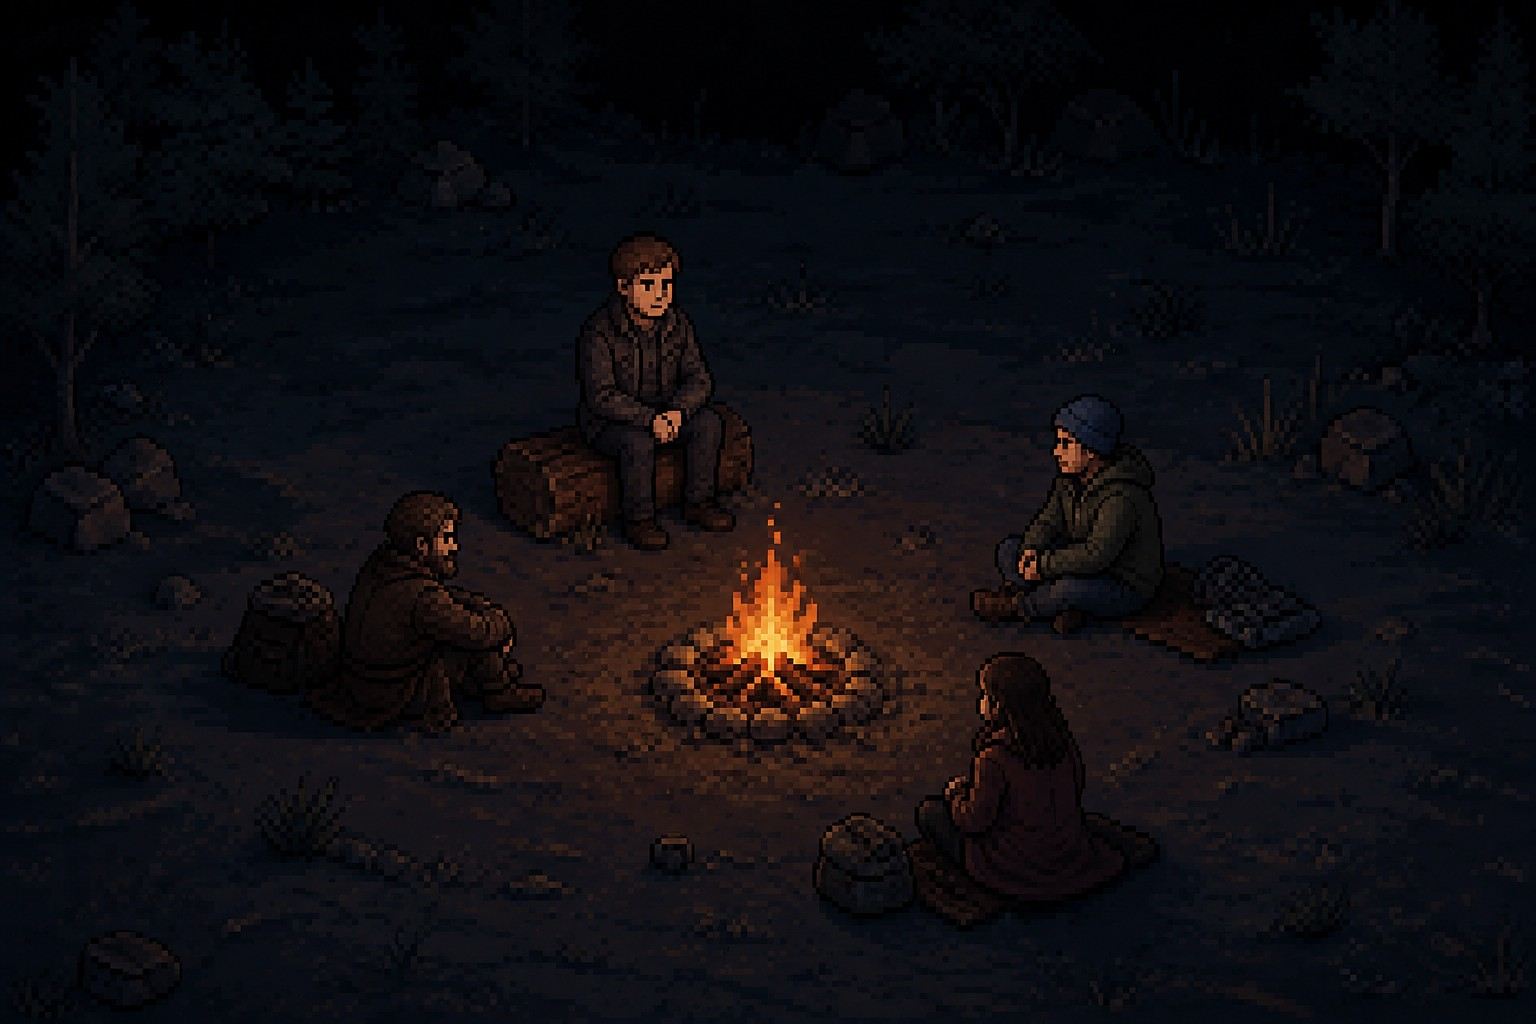
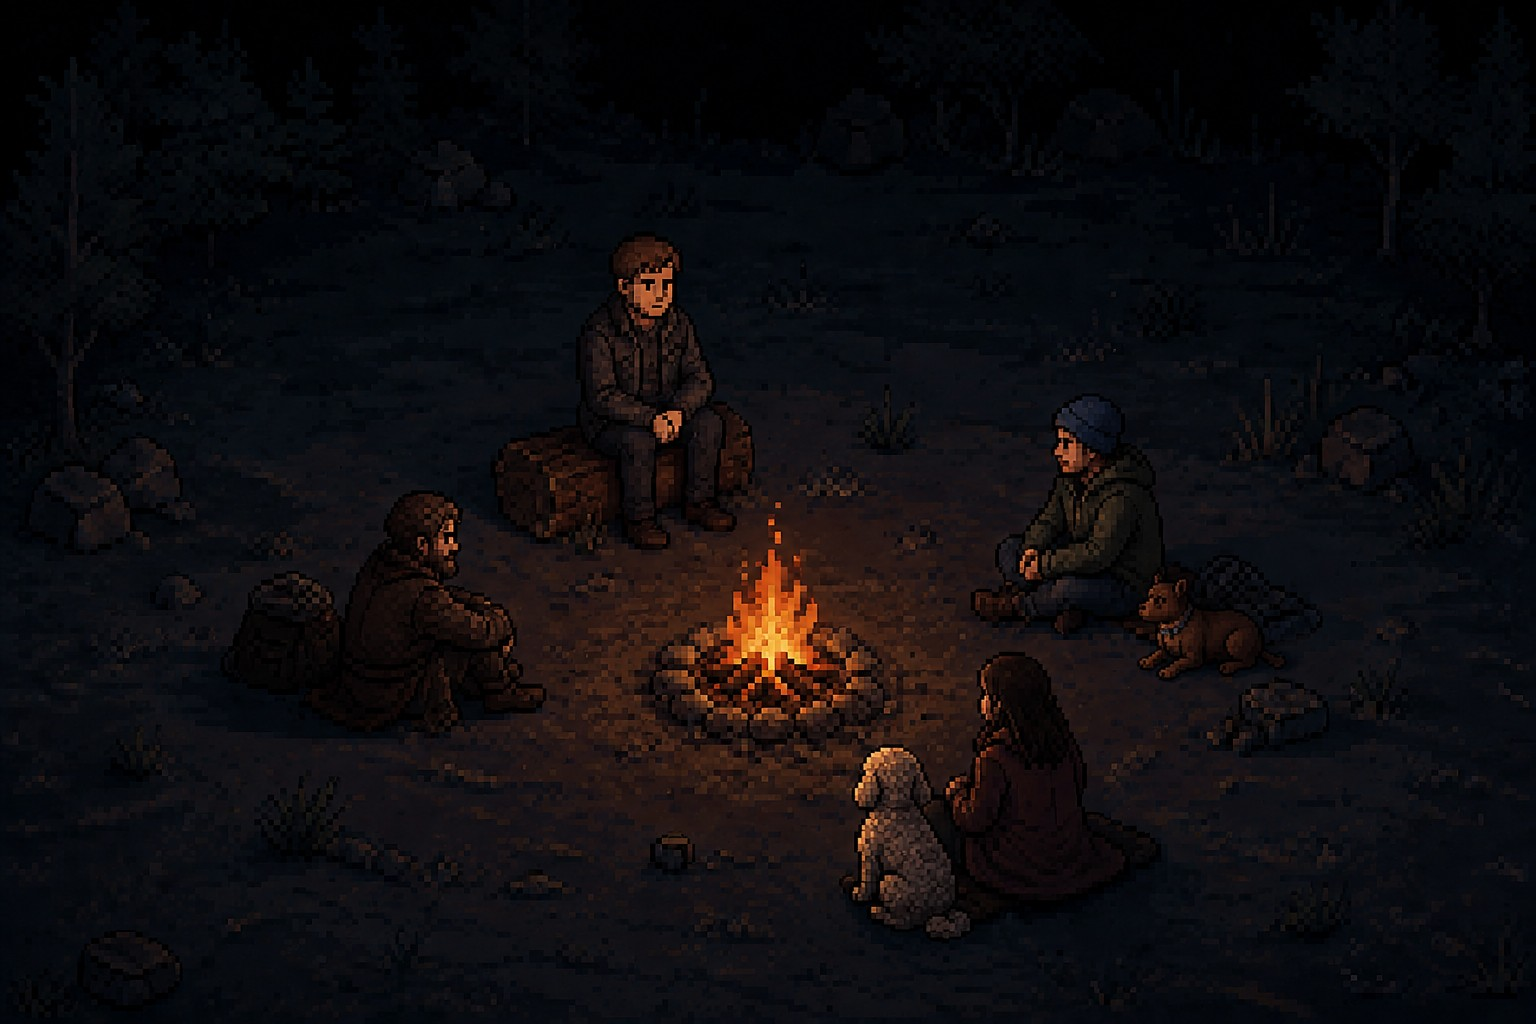
собаки

diff --git a/unhoused/styles.css b/unhoused/styles.css
@@ -324,23 +324,23 @@ button {
 }
 
 .character--sasha {
-  left: 42.2%;
-  top: 54.7%;
+  left: 34%;
+  top: 39%;
 }
 
 .character--ukraine {
   left: 27.5%;
-  top: 71.4%;
+  top: 75%;
 }
 
 .character--germany {
   left: 67.2%;
-  top: 91.8%;
+  top: 94%;
 }
 
 .character--britain {
-  left: 69.4%;
-  top: 64.3%;
+  left: 78.6%;
+  top: 47%;
 }
 
 .dialogue {
@@ -355,18 +355,50 @@ button {
   translate: -50% 0;
   display: flex;
   flex-direction: column;
-  overflow: hidden;
   padding: clamp(12px, 1.5vw, 24px) clamp(14px, 1.8vw, 30px) clamp(10px, 1.25vw, 20px);
-  border: 1px solid rgb(var(--speaker-color) / 48%);
+  filter: drop-shadow(0 12px 40px rgb(0 0 0 / 60%));
+  transition: opacity 180ms ease;
+}
+
+.dialogue::before {
+  content: "";
+  position: absolute;
+  inset: 0;
+  z-index: -2;
+  background: rgb(var(--speaker-color) / 52%);
+  clip-path: polygon(
+    9px 0,
+    calc(100% - 9px) 0,
+    100% 9px,
+    100% calc(100% - 9px),
+    calc(100% - 9px) 100%,
+    9px 100%,
+    0 calc(100% - 9px),
+    0 9px
+  );
+  pointer-events: none;
+  transition: background-color 220ms ease;
+}
+
+.dialogue::after {
+  content: "";
+  position: absolute;
+  inset: 1px;
+  z-index: -1;
   background:
-    linear-gradient(135deg, rgb(var(--speaker-color) / 9%), transparent 40%),
-    rgb(5 8 7 / 92%);
-  box-shadow:
-    0 12px 45px rgb(0 0 0 / 52%),
-    inset 0 -1px 0 rgb(var(--speaker-color) / 48%),
-    inset 0 0 28px rgb(255 255 255 / 2%);
-  clip-path: polygon(9px 0, calc(100% - 9px) 0, 100% 9px, 100% calc(100% - 9px), calc(100% - 9px) 100%, 9px 100%, 0 calc(100% - 9px), 0 9px);
-  transition: border-color 220ms ease, background-color 220ms ease, opacity 180ms ease;
+    linear-gradient(135deg, rgb(var(--speaker-color) / 10%), transparent 40%),
+    rgb(5 8 7 / 94%);
+  clip-path: polygon(
+    8.5px 0,
+    calc(100% - 8.5px) 0,
+    100% 8.5px,
+    100% calc(100% - 8.5px),
+    calc(100% - 8.5px) 100%,
+    8.5px 100%,
+    0 calc(100% - 8.5px),
+    0 8.5px
+  );
+  pointer-events: none;
 }
 
 .dialogue[data-character="ukraine"] { --speaker-color: 102 181 214; }
@@ -535,13 +567,49 @@ html.has-saved-progress #startCurtain {
 }
 
 .curtain__card {
+  position: relative;
   width: min(86%, 530px);
   padding: clamp(20px, 3.5vw, 44px);
-  border: 1px solid rgb(255 198 119 / 29%);
-  background: rgb(3 6 5 / 88%);
-  box-shadow: 0 24px 80px rgb(0 0 0 / 65%);
   text-align: center;
-  clip-path: polygon(10px 0, calc(100% - 10px) 0, 100% 10px, 100% calc(100% - 10px), calc(100% - 10px) 100%, 10px 100%, 0 calc(100% - 10px), 0 10px);
+  filter: drop-shadow(0 24px 70px rgb(0 0 0 / 75%));
+}
+
+.curtain__card::before {
+  content: "";
+  position: absolute;
+  inset: 0;
+  z-index: -2;
+  background: rgb(255 198 119 / 35%);
+  clip-path: polygon(
+    10px 0,
+    calc(100% - 10px) 0,
+    100% 10px,
+    100% calc(100% - 10px),
+    calc(100% - 10px) 100%,
+    10px 100%,
+    0 calc(100% - 10px),
+    0 10px
+  );
+  pointer-events: none;
+}
+
+.curtain__card::after {
+  content: "";
+  position: absolute;
+  inset: 1px;
+  z-index: -1;
+  background: rgb(3 6 5 / 92%);
+  clip-path: polygon(
+    9.5px 0,
+    calc(100% - 9.5px) 0,
+    100% 9.5px,
+    100% calc(100% - 9.5px),
+    calc(100% - 9.5px) 100%,
+    9.5px 100%,
+    0 calc(100% - 9.5px),
+    0 9.5px
+  );
+  pointer-events: none;
 }
 
 .curtain__wrap .curtain__card {
@@ -729,7 +797,7 @@ html.has-saved-progress #startCurtain {
 
   .character--sasha {
     left: 41%;
-    top: 59%;
+    top: 61.5%;
   }
 
   .character--ukraine {
@@ -738,13 +806,13 @@ html.has-saved-progress #startCurtain {
   }
 
   .character--germany {
-    left: 56.5%;
-    top: 95%;
+    left: 55%;
+    top: 97%;
   }
 
   .character--britain {
-    left: 63%;
-    top: 79%;
+    left: 64.6%;
+    top: 69%;
   }
 
   .dialogue {
